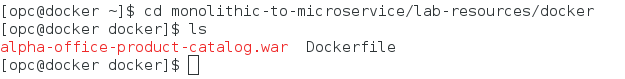
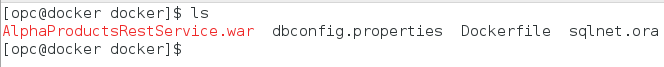
Update to Lab 200

Changed region(s): [[0.0, 0.0299, 1.0, 0.9254], [0.2736, 0.9254, 0.3344, 0.9552], [0.4864, 0.3582, 0.5168, 0.3881]]

diff --git a/lab-guides/LabGuide200.md b/lab-guides/LabGuide200.md
@@ -369,7 +369,8 @@ In this section you will clone a github repository containing a Java Application
 
 ### **Step 1**: Clone the git repository
 
-- Clone the git repository that contains the AlphaOffice application. **Type or Copy and Paste**:
+- Clone the git repository to your newly created OCI VM. This repo contains support files and the AlphaOffice application.
+ **Type or Copy and Paste**:
 
   ```
   git clone https://github.com/derekoneil/monolithic-to-microservice.git
@@ -377,16 +378,39 @@ In this section you will clone a github repository containing a Java Application
 
   ![](images/200/45.PNG)
 
-- From the directory you cloned the repository into **Type**:
+- From the directory you just cloned the repository into **Type**: (Command assumes your in the $HOME directory /home/opc)
 
   ```
   cd monolithic-to-microservice/lab-resources/docker
   ```
 
-- Here you will find the baseline `AlphaProductsRestService.war` file and a `Dockerfile`:
+- Here you will find the baseline `AlphaProductsRestService.war` file, `dbconfig.properties`, `sqlnet.ora` and a `Dockerfile`:
 
   ![](images/200/46.PNG)
 
+- From your local machine copy the database wallet file you downloaded in Lab 100 into the `/home/opc/monolithic-to-microservice/lab-resources/docker` directory in your OCI VM. The examples below assume your running the (p)scp command from the directory where the wallet file is located. The private key you generated is also in this directory:
+  **NOTE:** If your wallet file is a different name than **Wallet_orcl.zip** then substitute your name as shown in these examples below:
+
+  **Linux / MAC**
+
+  ```
+  scp -i ./dockerkey ./Wallet-mattoATP.zip opc@<YOUR-PUBLIC-IP>:/home/opc/monolithic-to-microservice/lab-resources/docker
+  ```
+
+  ![](images/200/46-1.1.PNG)
+  
+  **Windows** (Using the pscp utility bundled with Putty)
+
+  ```
+  scp -i .\dockerkey.ppk .\Wallet-mattoATP.zip opc@<YOUR-PUBLIC-IP>:/home/opc/monolithic-to-microservice/lab-resources/docker
+  ```
+
+   ![](images/200/46-1.2.PNG)
+
+- The wallet file should now be in the /home/opc/monolithic-to-microservice/lab-resources/docker directory on the OCI VM:
+
+  ![](images/200/46-1.3.PNG)
+ 
 ### **Step 2**: Build a Docker image
 
 In this step you are going to edit the provided Dockerfile and dbconfig.properties file, then build a Docker image based on commands provided in that file. You're going to add your ATP DB instance specific Wallet file. It will take a baseline java docker image from Docker Hub, add a Glassfish 4.1.1 application server and then deploy the `AlphaProductsRestService.war` into the Glassfish server running on port 8080. If you recall you opened port 8080 in the Networking Security List earlier in this lab so access from the internet can occur.
